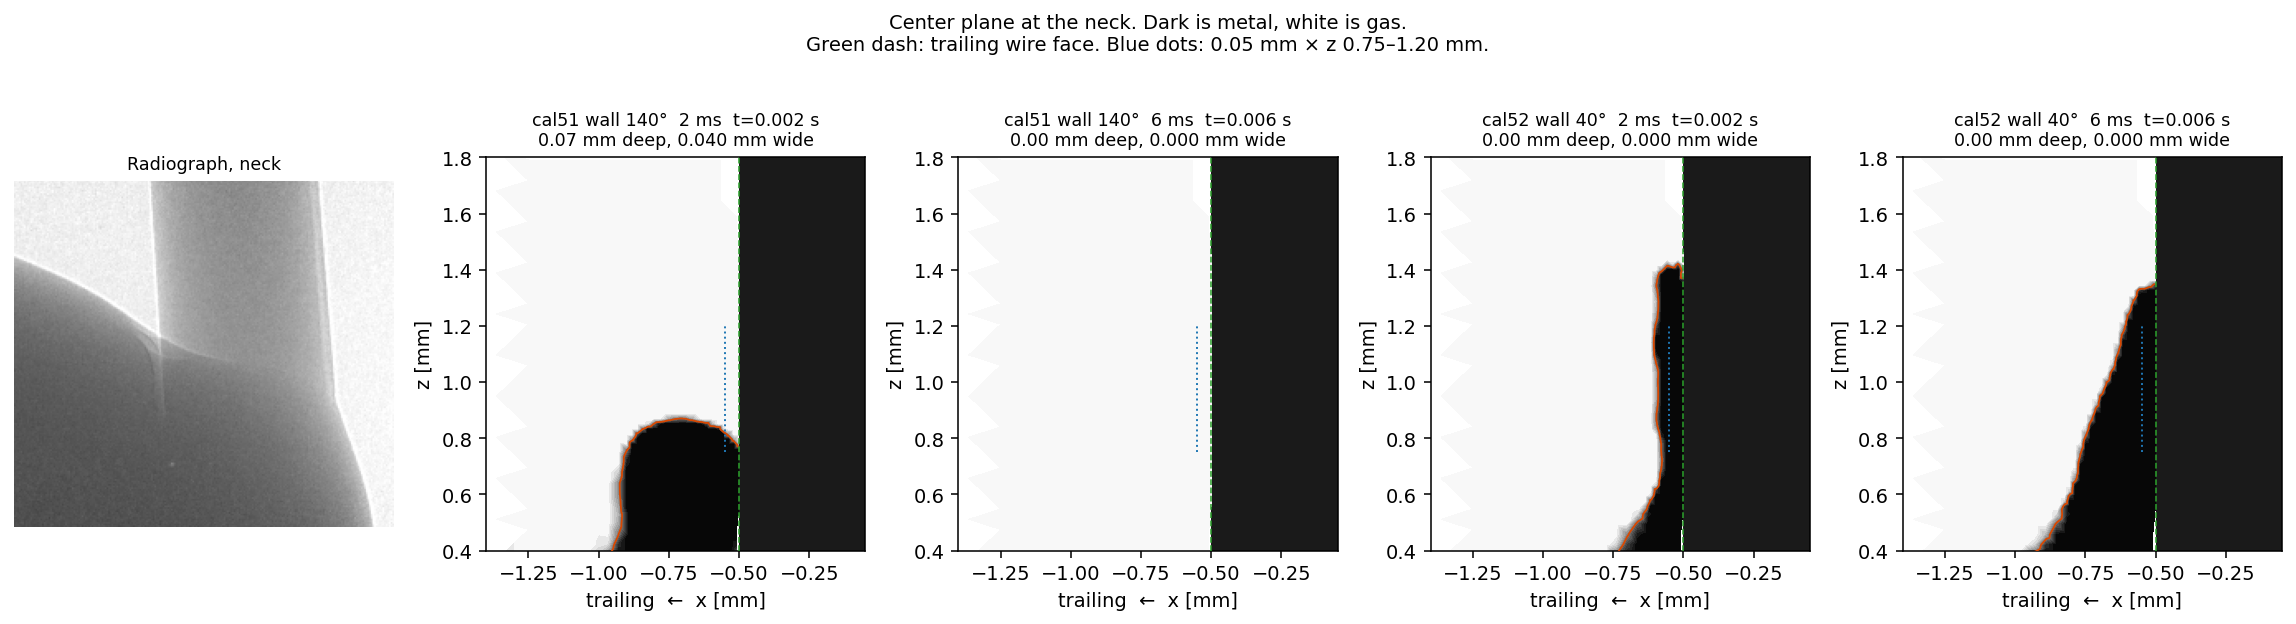
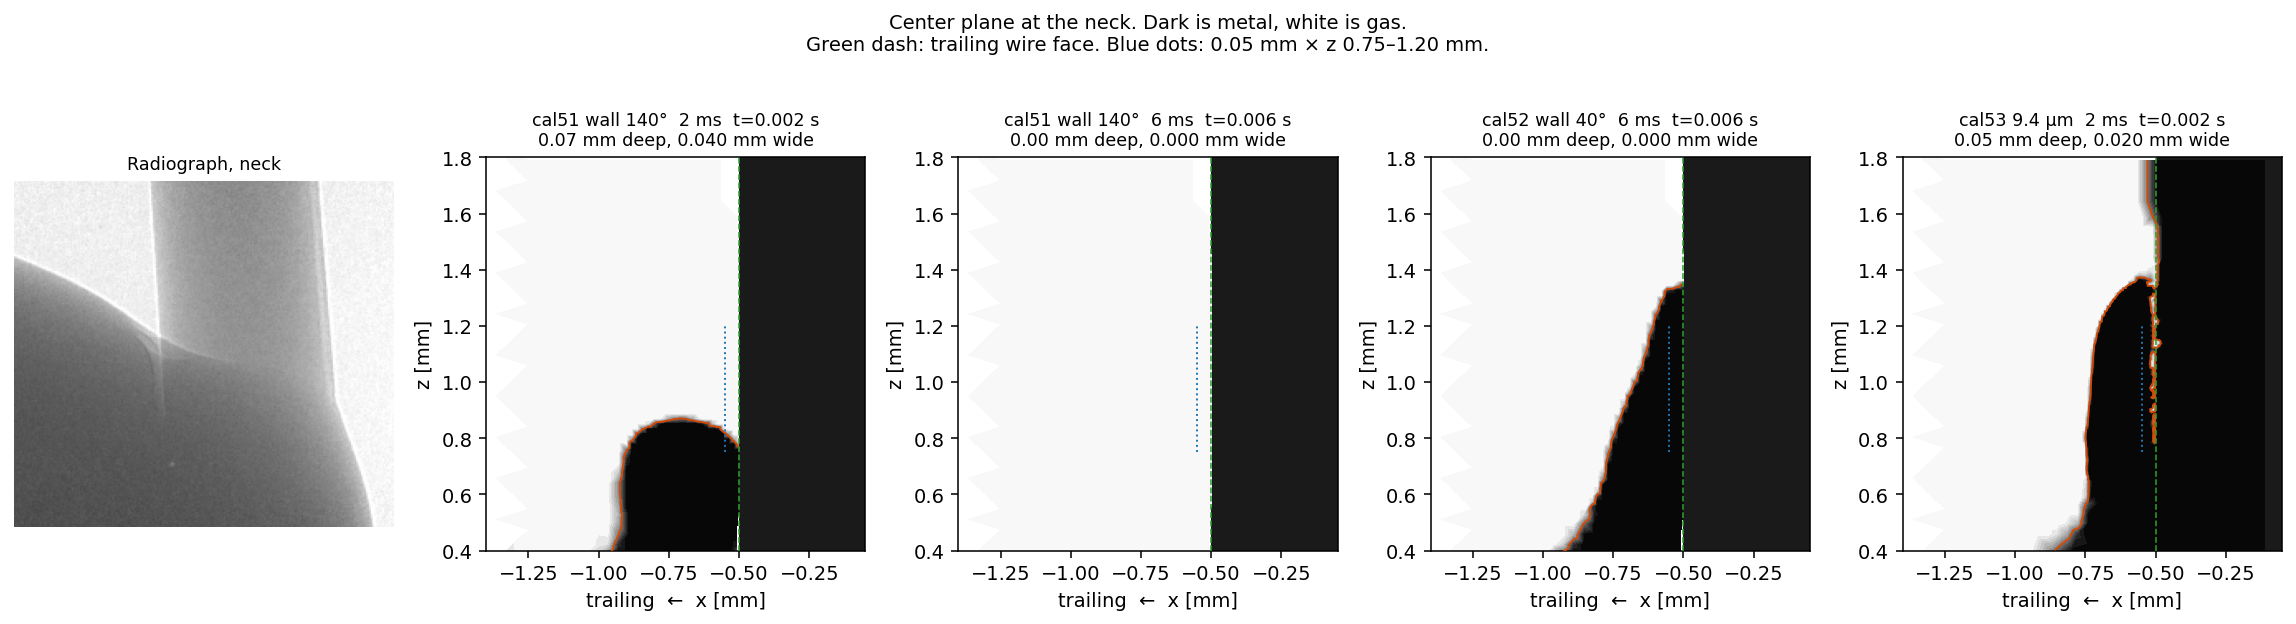
Record that a 9.4 um neck still fills the groove.
The painted mouth is shut by 0.25 ms. At 2 ms only a capped 0.02 mm
wisp remains, so the run was stopped. Finer cells do not hold the slit.

diff --git a/results/calibration/README.md b/results/calibration/README.md
@@ -303,4 +303,6 @@ The wall angle does change the neck, and it does not hold a slit. `stability:` i
 
 140° does not keep a 0.05 mm film. The non-wetting wall drives the pool off the face. 40° closes the gap and the metal stays on the wall. The contact angle is being enforced. Neither state is the radiograph slit (0.03–0.08 mm wide, at least 0.25 mm deep, steady for 4 ms), so there is no oxygen-to-angle map and no change to how the lower end melts. Figure: `wall_fine_neck.png`.
 
-cal53 has not reached a side plane. After about 20 min the time is still near 0.15 ms. The step sits between 0.05 µs and 0.3 µs with a maximum Courant number near 0.4, so the neck velocity is tens of metres per second and the 6 ms end is a few hours away. The 9.4 µm groove is not scored yet.
+cal53 does not hold the groove either. The painted mouth is 0.048 mm at the first step and 0.0005 mm from 0.25 ms onward. At 2 ms the center plane is metal on the wire from z = 0.60 mm to 1.20 mm, with a capped 0.020 × 0.050 mm wisp at z 1.25–1.30 mm. That sample already fails the film test, so later times could not accumulate 4 ms of a good film. The run was stopped at 2.3 ms. The step had stayed between 0.05 µs and 0.3 µs with a maximum Courant number near 0.4. Finer cells close the same groove faster than the 19 µm mesh. `stability:` is "no steady film".
+
+The wall boundary condition does enforce the angle: 40° wets and stays wet, and 140° drives the pool off the wall onto a bare face. The 9.4 µm neck still fills the groove. No case holds a thin slit, and no full-domain demo was started.
